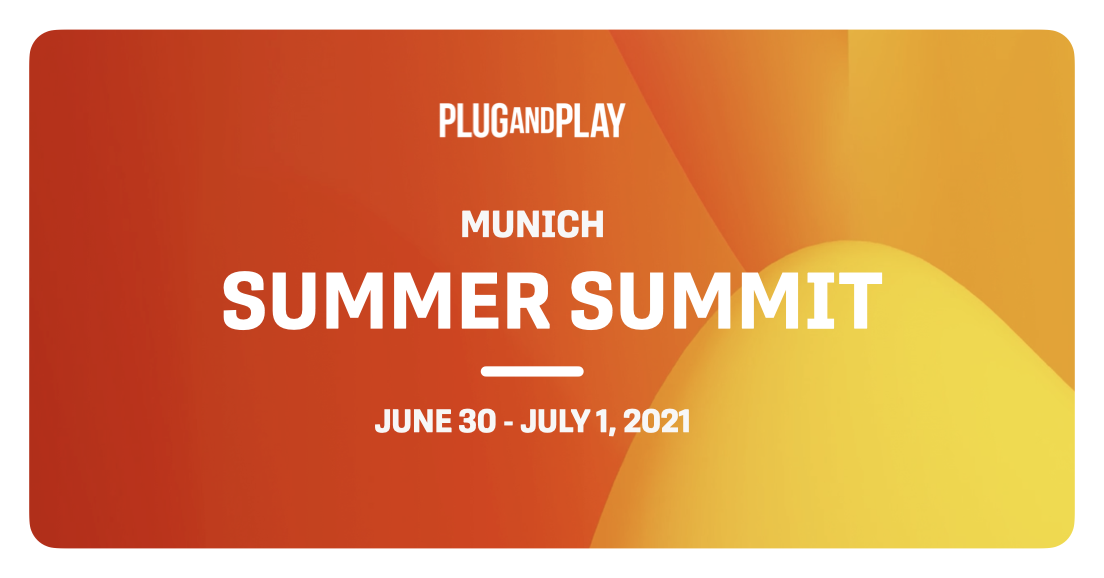
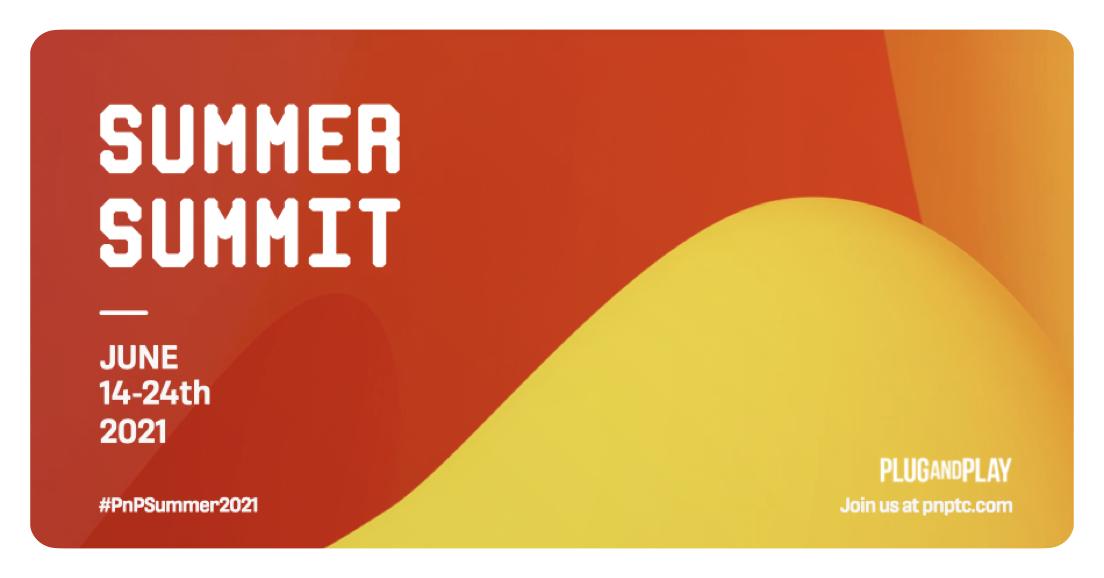
220304 수정사항 반영
pnp 섬머 서밋 이미지 변경

이벤트, 이노픽 이미지 클릭시 상세보기로 이동 추가
행사 일정 수정
이벤트 메인 타이틀 세미나 및 컨퍼런스 -> EvENT로 수정
소제목 이런 프로그램들 -> 이런 이벤트들 로 수정

diff --git a/src/views/insight/EventElements.js b/src/views/insight/EventElements.js
@@ -15,8 +15,8 @@ export const PortfolioElements =
         <div className="container" data-aos="fade-up">
 
             <div className="section-title">
-                <h2>세미나 및 컨퍼런스</h2>
-                <p>이런 프로그램들도 놓치지 마세요!</p>
+                <h2>Event</h2>
+                <p>이런 이벤트들도 놓치지 마세요!</p>
             </div>
 
             <ul id="portfolio-flters" className="d-flex justify-content-center" data-aos="fade-up" data-aos-delay="100">
@@ -29,36 +29,44 @@ export const PortfolioElements =
             <div className="row portfolio-container" data-aos="fade-up" data-aos-delay="200">
 
                 <div className="col-lg-4 col-md-6 portfolio-item filter-come">
+                    <a href="https://www.plugandplaytechcenter.com/events/web-30-and-big-data-in-healthcare/">
                     <div className="portfolio-img"><img src={require('../../assets/img/insight/contest/PnP_Web3_and_Big_Data_in_Healthcare.png').default} className="img-fluid" alt=""></img></div>
                     <div className="portfolio-info">
                         <h4>PnP Web 3.0 빅데이터</h4>
                         <p>2022.05.18</p>
                         <a href="https://www.plugandplaytechcenter.com/events/web-30-and-big-data-in-healthcare/" className="details-link" title="More Details"><BiLink /></a>
                     </div>
+                    </a>
                 </div>
                 <div className="col-lg-4 col-md-6 portfolio-item filter-come">
+                    <a href="http://wiznet.ai/aiexpo/index/">
                     <div className="portfolio-img"><img src={require('../../assets/img/insight/contest/2022_ai_expo_korea.png').default} className="img-fluid" alt=""></img></div>
                     <div className="portfolio-info">
                         <h4>AI EXPO KOREA 2.0</h4>
-                        <p>2022.04.13 ~ 15</p>
+                        <p>2022.04.13~2022.04.15</p>
                         <a href="http://wiznet.ai/aiexpo/index/" className="details-link" title="More Details"><BiLink /></a>
                     </div>
+                    </a>
                 </div>
                 <div className="col-lg-4 col-md-6 portfolio-item filter-come">
+                    <a href="https://www.youtube.com/watch?v=INK8oo-3_EQ&list=PLXtJv3Egd0bYk5tUolnu7mgSq7S8M5Ek6/">
                     <div className="portfolio-img"><img src={require('../../assets/img/insight/contest/public_session_org.png').default} className="img-fluid" alt=""></img></div>
                     <div className="portfolio-info">
                         <h4>ICT분야 창업·벤처 지원사업 통합설명회</h4>
                         <p>2022.02.14</p>
                         <a href="https://www.youtube.com/watch?v=INK8oo-3_EQ&list=PLXtJv3Egd0bYk5tUolnu7mgSq7S8M5Ek6/" className="details-link" title="More Details"><BiLink /></a>
                     </div>
+                    </a>
                 </div>
                 <div className="col-lg-4 col-md-6 portfolio-item filter-come">
+                    <a href="https://startingpoint.imweb.me/Entrepreneurvillage">
                     <div className="portfolio-img"><img src={require('../../assets/img/insight/contest/만반잘부.jpg').default} className="img-fluid" alt=""></img></div>
                     <div className="portfolio-info">
                         <h4>만반잘부 창업촌</h4>
-                        <p>2022.03.10</p>
+                        <p>2022.02.10</p>
                         <a href="https://startingpoint.imweb.me/Entrepreneurvillage" className="details-link" title="More Details"><BiLink /></a>
                     </div>
+                    </a>
                 </div>
 
                 {/* <div className="col-lg-4 col-md-6 portfolio-item filter-ing">
@@ -71,48 +79,58 @@ export const PortfolioElements =
                 </div> */}
 
                 <div className="col-lg-4 col-md-6 portfolio-item filter-finish">
+                    <a href="https://www.plugandplayapac.com/apac-summit">
                     <div className="portfolio-img"><img src={require('../../assets/img/insight/contest/APAC SUMMIT 2021.png').default} className="img-fluid" alt=""></img></div>
                     <div className="portfolio-info">
                         <h4>APAC SUMMIT 2021</h4>
-                        <p>2021.11.01~2021.12.31</p>
+                        <p>2021.11.23~2021.11.25</p>
                         <a href="https://www.plugandplayapac.com/apac-summit" className="details-link" title="More Details"><BiLink /></a>
                     </div>
+                    </a>
                 </div>
 
                 <div className="col-lg-4 col-md-6 portfolio-item filter-finish">
+                    <a href="https://www.kcomeup.com/">
                     <div className="portfolio-img"><img src={require('../../assets/img/insight/contest/comeup.png').default} className="img-fluid" alt=""></img></div>
                     <div className="portfolio-info">
                         <h4>Comeup</h4>
-                        <p>2021.11.01~2021.12.31</p>
+                        <p>2021.11.17~2021.11.19</p>
                         <a href="https://www.kcomeup.com/" className="details-link" title="More Details"><BiLink /></a>
                     </div>
-                </div>
-
-                <div className="col-lg-4 col-md-6 portfolio-item filter-finish">
-                    <div className="portfolio-img"><img src={require('../../assets/img/insight/contest/nextrise 2021.png').default} className="img-fluid" alt=""></img></div>
-                    <div className="portfolio-info">
-                        <h4>nextrise 2021</h4>
-                        <p>2021.11.01~2021.12.31</p>
-                        <a href="https://www.nextrise.co.kr/" className="details-link" title="More Details"><BiLink /></a>
-                    </div>
-                </div>
-
-                <div className="col-lg-4 col-md-6 portfolio-item filter-finish">
-                    <div className="portfolio-img"><img src={require('../../assets/img/insight/contest/SUMMER SUMMIT.png').default} className="img-fluid" alt=""></img></div>
-                    <div className="portfolio-info">
-                        <h4>SUMMER SUMMIT</h4>
-                        <p>2021.11.01~2021.12.31</p>
-                        <a href="https://www.plugandplaytechcenter.com/summer-2021/" className="details-link" title="More Details"><BiLink /></a>
-                    </div>
+                    </a>
                 </div>
 
                 <div className="col-lg-4 col-md-6 portfolio-item filter-finish">
                     <div className="portfolio-img"><img src={require('../../assets/img/insight/contest/WINTER SUMMIT.png').default} className="img-fluid" alt=""></img></div>
+                    <a href="https://www.plugandplaytechcenter.com/events/winter-summit-2021/">
                     <div className="portfolio-info">
                         <h4>WINTER SUMMIT</h4>
-                        <p>2021.11.01~2021.12.31</p>
+                        <p>2021.11.08~2021.11.18</p>
                         <a href="https://www.plugandplaytechcenter.com/events/winter-summit-2021/" className="details-link" title="More Details"><BiLink /></a>
                     </div>
+                    </a>
+                </div>
+
+                <div className="col-lg-4 col-md-6 portfolio-item filter-finish">
+                    <a href="https://www.nextrise.co.kr/">
+                    <div className="portfolio-img"><img src={require('../../assets/img/insight/contest/nextrise 2021.png').default} className="img-fluid" alt=""></img></div>
+                    <div className="portfolio-info">
+                        <h4>nextrise 2021</h4>
+                        <p>2021.06.28~2021.06.29</p>
+                        <a href="https://www.nextrise.co.kr/" className="details-link" title="More Details"><BiLink /></a>
+                    </div>
+                    </a>
+                </div>
+
+                <div className="col-lg-4 col-md-6 portfolio-item filter-finish">
+                    <a href="https://www.plugandplaytechcenter.com/summer-2021/">
+                    <div className="portfolio-img"><img src={require('../../assets/img/insight/contest/SUMMER SUMMIT.png').default} className="img-fluid" alt=""></img></div>
+                    <div className="portfolio-info">
+                        <h4>SUMMER SUMMIT</h4>
+                        <p>2021.06.14~2021.06.24</p>
+                        <a href="https://www.plugandplaytechcenter.com/summer-2021/" className="details-link" title="More Details"><BiLink /></a>
+                    </div>
+                    </a>
                 </div>
 
             </div>

diff --git a/src/views/program/DfsElements.js b/src/views/program/DfsElements.js
@@ -131,11 +131,9 @@ export const ServiceElements =
                         <div className="icon-box">
                             <img src="../assets/img/icon/startup-archive_2.png" className="img-fluid" alt=""></img>
                                 <h4><a href="/3">물류</a></h4>
-                                <p>Fulfillment</p>
-                                <p>Last Mile Delivery</p>
-                                <p>Data Recognition</p>
-                                <p>Big Data / AI</p>
-                                <p>Data Access / Processing</p>
+                                <p>Fulfillment (물류 자동화)</p>
+                                <p>Last Mile Delivery (배송 최적화)</p>
+                                <p>Smart Logistics (차세대 물류 서비스)</p>
                         </div>
                     </div>
 
@@ -143,8 +141,8 @@ export const ServiceElements =
                         <div className="icon-box">
                             <img src="../assets/img/icon/startup-archive_6.png" className="img-fluid" alt=""></img>
                                 <h4><a href="/4">여행</a></h4>
-                                <p>Commerce Tour</p>
-                                <p>Mobility Service</p>
+                                <p>Commerce Tour (소비자 경험 향상)</p>
+                                <p>Mobility Service (여행 모빌리티)</p>
                         </div>
                     </div>
                 </div>

diff --git a/src/views/insight/InnoPick.js b/src/views/insight/InnoPick.js
@@ -66,12 +66,14 @@ const InnoPick = () => {
             data.stData.map((v, i) => {
                 return (
                     <div className={'col-lg-4 col-md-6 portfolio-item filter-' + i}>
+                        <a href={"/insight/detail/"+v.bno+"/"+v.content}>
                         <div className="portfolio-img"><img src={require('../../assets/img/insight/techpick/'+v.bno+'/'+v.content[0]).default} className="img-fluid" alt=""></img></div>
                         <div className="portfolio-info">
                             <h4>{v.title}</h4>
                             <p>{v.regDate.slice(0,10)}</p>
                             <a href={"/insight/detail/"+v.bno+"/"+v.content} className="details-link" title="More Details"><BiLink /></a>
                         </div>
+                        </a>
                     </div>
                 )
             })

diff --git a/src/views/program/StartupSourcing.js b/src/views/program/StartupSourcing.js
@@ -83,7 +83,7 @@ const StartupSourcing = () => {
                                 <h4 style={{fontSize: '22px', fontWeight: 'bold'}}><a href="/3">물류</a></h4>
                                 <p style={{fontSize: '16px', marginTop : ' 5px'}}>Fulfillment (물류 자동화)</p>
                                 <p style={{fontSize: '16px', marginTop : ' 5px'}}>Last Mile Delivery( 배송 최적화)</p>
-                                <p style={{fontSize: '16px', marginTop : ' 5px'}}>Data Access / Processing (물류 데이터 처리 및 가공)</p>
+                                <p style={{fontSize: '16px', marginTop : ' 5px'}}>Smart Logistics (차세대 물류 기술)</p>
                         </div>
                     </div>
 
